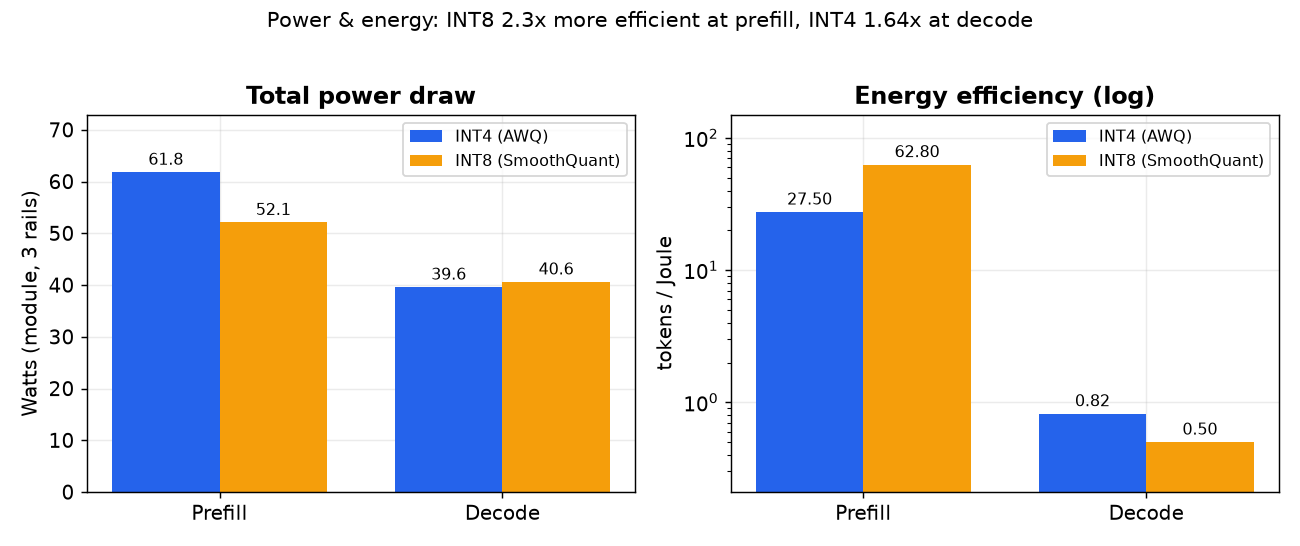
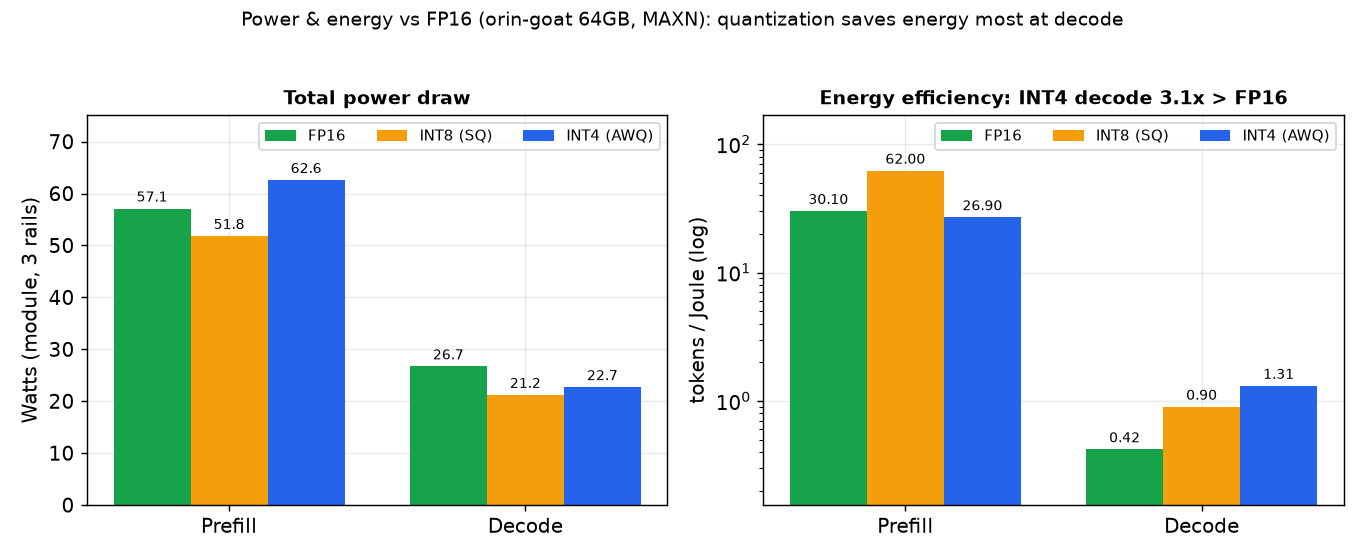
site: FP16 in perf charts + enriched counterintuitive analysis

diff --git a/index.html b/index.html
@@ -109,10 +109,10 @@ footer a{color:var(--accent)}
 
   <h3>1.1 性能：延迟 / 吞吐 / 显存 / 功耗 / 能效</h3>
   <div class="grid2">
-    <figure><img src="figures/bench_throughput.png" alt="throughput"><figcaption><b>横轴</b>：Prefill(512 token 输入) / Decode(每 token) 两阶段<br><b>竖轴</b>：吞吐 TPS (tokens/s，越高越快)<br><b>结果</b>：prefill INT8 快 1.9×；decode INT4 快 1.57×<br><b>分析</b>：prefill 计算密集(并行大矩阵乘)→INT8 原生张量核占优；decode 访存密集(每步搬全部权重)→INT4 权重小更快 ⇒ 交互式选 INT4、预填充/批量选 INT8</figcaption></figure>
-    <figure><img src="figures/bench_power_energy.png" alt="power & energy"><figcaption><b>横轴</b>：Prefill / Decode 两阶段(两子图同)<br><b>竖轴</b>：左=整机功耗(瓦，三电轨之和)，右=能效 tokens/J (对数轴，越高越省电)<br><b>结果</b>：INT8 prefill 能效高 2.3×，INT4 decode 能效高 1.64×<br><b>分析</b>：能效=吞吐÷功耗，各阶段吞吐赢家功耗还不劣；边缘设备电/热受限，能效常比绝对速度更关键</figcaption></figure>
+    <figure><img src="figures/bench_throughput.png" alt="throughput"><figcaption><b>横轴</b>：Prefill(512 输入) / Decode(每 token) 两阶段（三精度含 FP16，goat 同机）<br><b>竖轴</b>：吞吐 TPS (tokens/s)<br><b>结果</b>：prefill INT8 比 FP16 快 1.87×、INT4≈FP16；decode INT4 快 2.66×、INT8 快 1.70×（vs FP16）<br><b>分析</b>：<strong>反常点——INT4 prefill 并不比 FP16 快</strong>：prefill 计算密集，INT4(AWQ) 要先把 4bit 权重<strong>反量化回 fp16</strong> 再算，反量化开销抵消了小权重优势；INT8 用<strong>原生 int8 张量核</strong>直接快 1.87×。decode 访存密集(每步搬全部权重)，权重越小越快 → INT4(4.8GB) 2.66×。⇒ prefill 选 INT8，decode/交互选 INT4。</figcaption></figure>
+    <figure><img src="figures/bench_power_energy.png" alt="power & energy"><figcaption><b>横轴</b>：Prefill / Decode（三精度含 FP16，goat 同机）<br><b>竖轴</b>：左=整机功耗(瓦，三电轨之和)，右=能效 tokens/J (对数轴)<br><b>结果</b>：decode 能效 FP16 0.42 / INT8 0.90 / INT4 1.31（<strong>INT4 比 FP16 高 3.1×</strong>）<br><b>分析</b>：<strong>反常点——INT4 prefill 功耗反而最高(62.6W&gt;FP16 57.1)、prefill 能效反而最低(26.9&lt;FP16 30.1)</strong>：AWQ 反量化让 GPU 在计算密集的 prefill "忙而无增益"→更费电。但 decode 是访存主导，INT4 权重小、每 token 搬运能耗低 → 能效 3.1× FP16。⇒ AWQ 的能效收益全在 decode，不在 prefill。</figcaption></figure>
     <figure><img src="figures/decode_scaling.png" alt="decode scaling"><figcaption><b>横轴</b>：上下文长度(past-KV token 数，128→4000)<br><b>竖轴</b>：INT4 decode 吞吐 TPS (tokens/s)<br><b>结果</b>：上下文涨 31× 吞吐仅降 9%<br><b>分析</b>：decode 延迟由权重搬运主导、注意力占比小，故长上下文几乎不掉速 ⇒ 适合长对话/长文档</figcaption></figure>
-    <figure><img src="figures/footprint.png" alt="footprint"><figcaption><b>横轴</b>：三类产物(Orin LLM 引擎 / 打包 tgz / 载入显存)<br><b>竖轴</b>：体积(GB)<br><b>结果</b>：INT4 比 INT8 约省 42%<br><b>分析</b>：LLM 主干 INT8≈INT4 的 1.7×(近 W8A8 vs W4A16 理论 2×，差在共享 fp16 词嵌入/视觉塔)；省下的显存可留给更长 KV cache 或多模型并存</figcaption></figure>
+    <figure><img src="figures/footprint.png" alt="footprint"><figcaption><b>横轴</b>：三精度 LLM 引擎<br><b>竖轴</b>：引擎体积(GB)，红虚线=dog 统一内存 30GB<br><b>结果</b>：FP16 15.2 / INT8 8.3 / INT4 4.8 GB（INT4 = FP16 的 32%）<br><b>分析</b>：三者的<strong>推理</strong>都能装进 dog 的 30GB（引擎+KV+仅 8MB 激活，FP16≈17GB）；<strong>反常点——真正装不下的是 FP16 的 build(编译)：实测峰值 55GB</strong>，故 dog build 不了、须 64GB goat build 再把引擎拷回。省下的显存可留给更长 KV cache 或多模型并存。</figcaption></figure>
   </div>
   <table>
     <tr><th>标准服务指标（Orin sm_87 / CUDA 12.6.11 / TRT 10.7 / MAXN, batch=1）</th><th>FP16 †</th><th>INT4 (AWQ)</th><th>INT8 (SmoothQuant)</th></tr>
